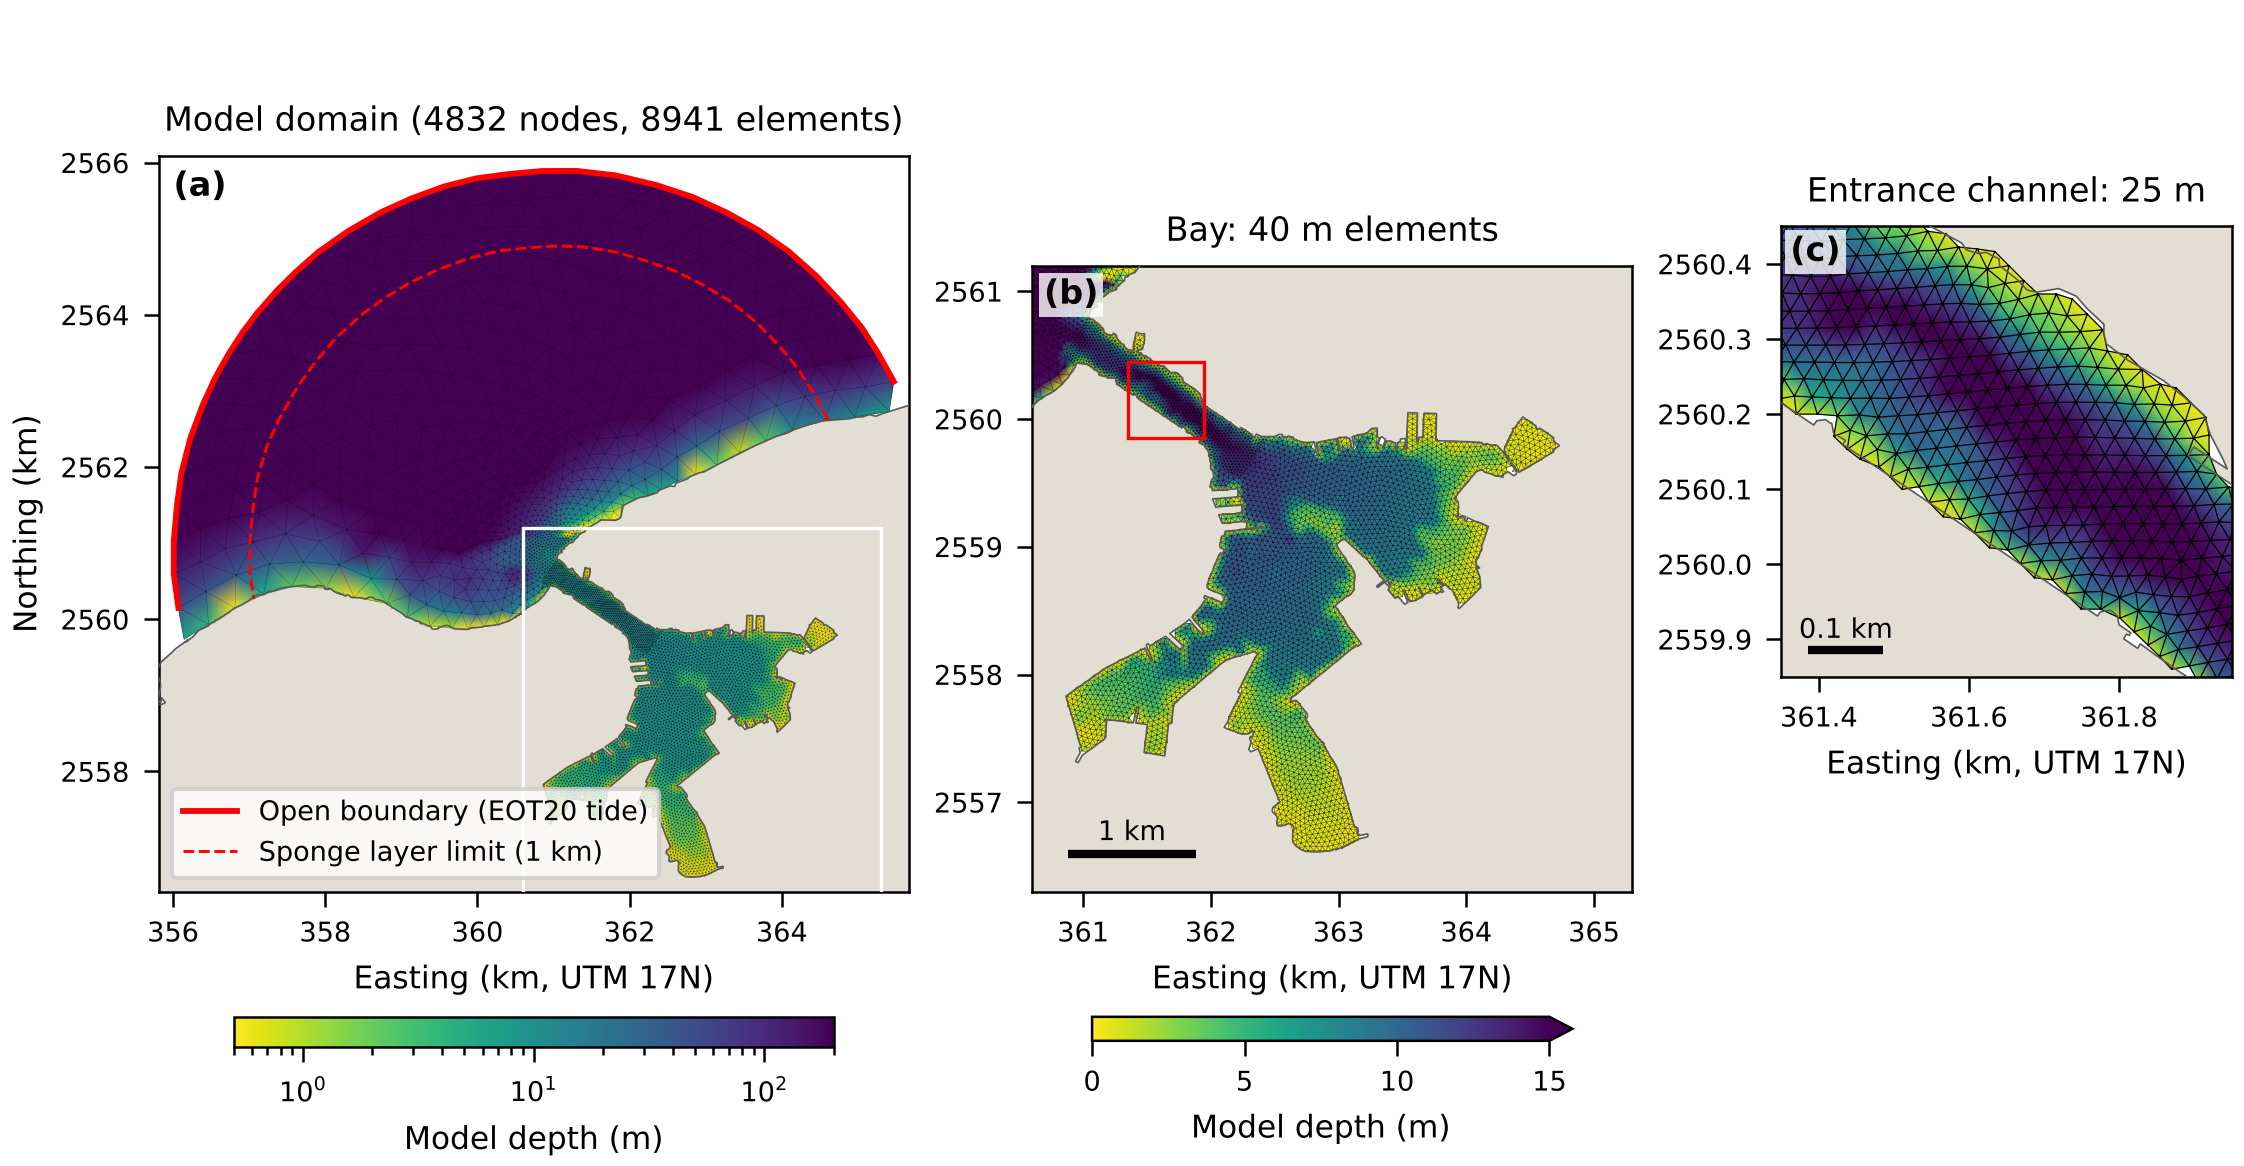
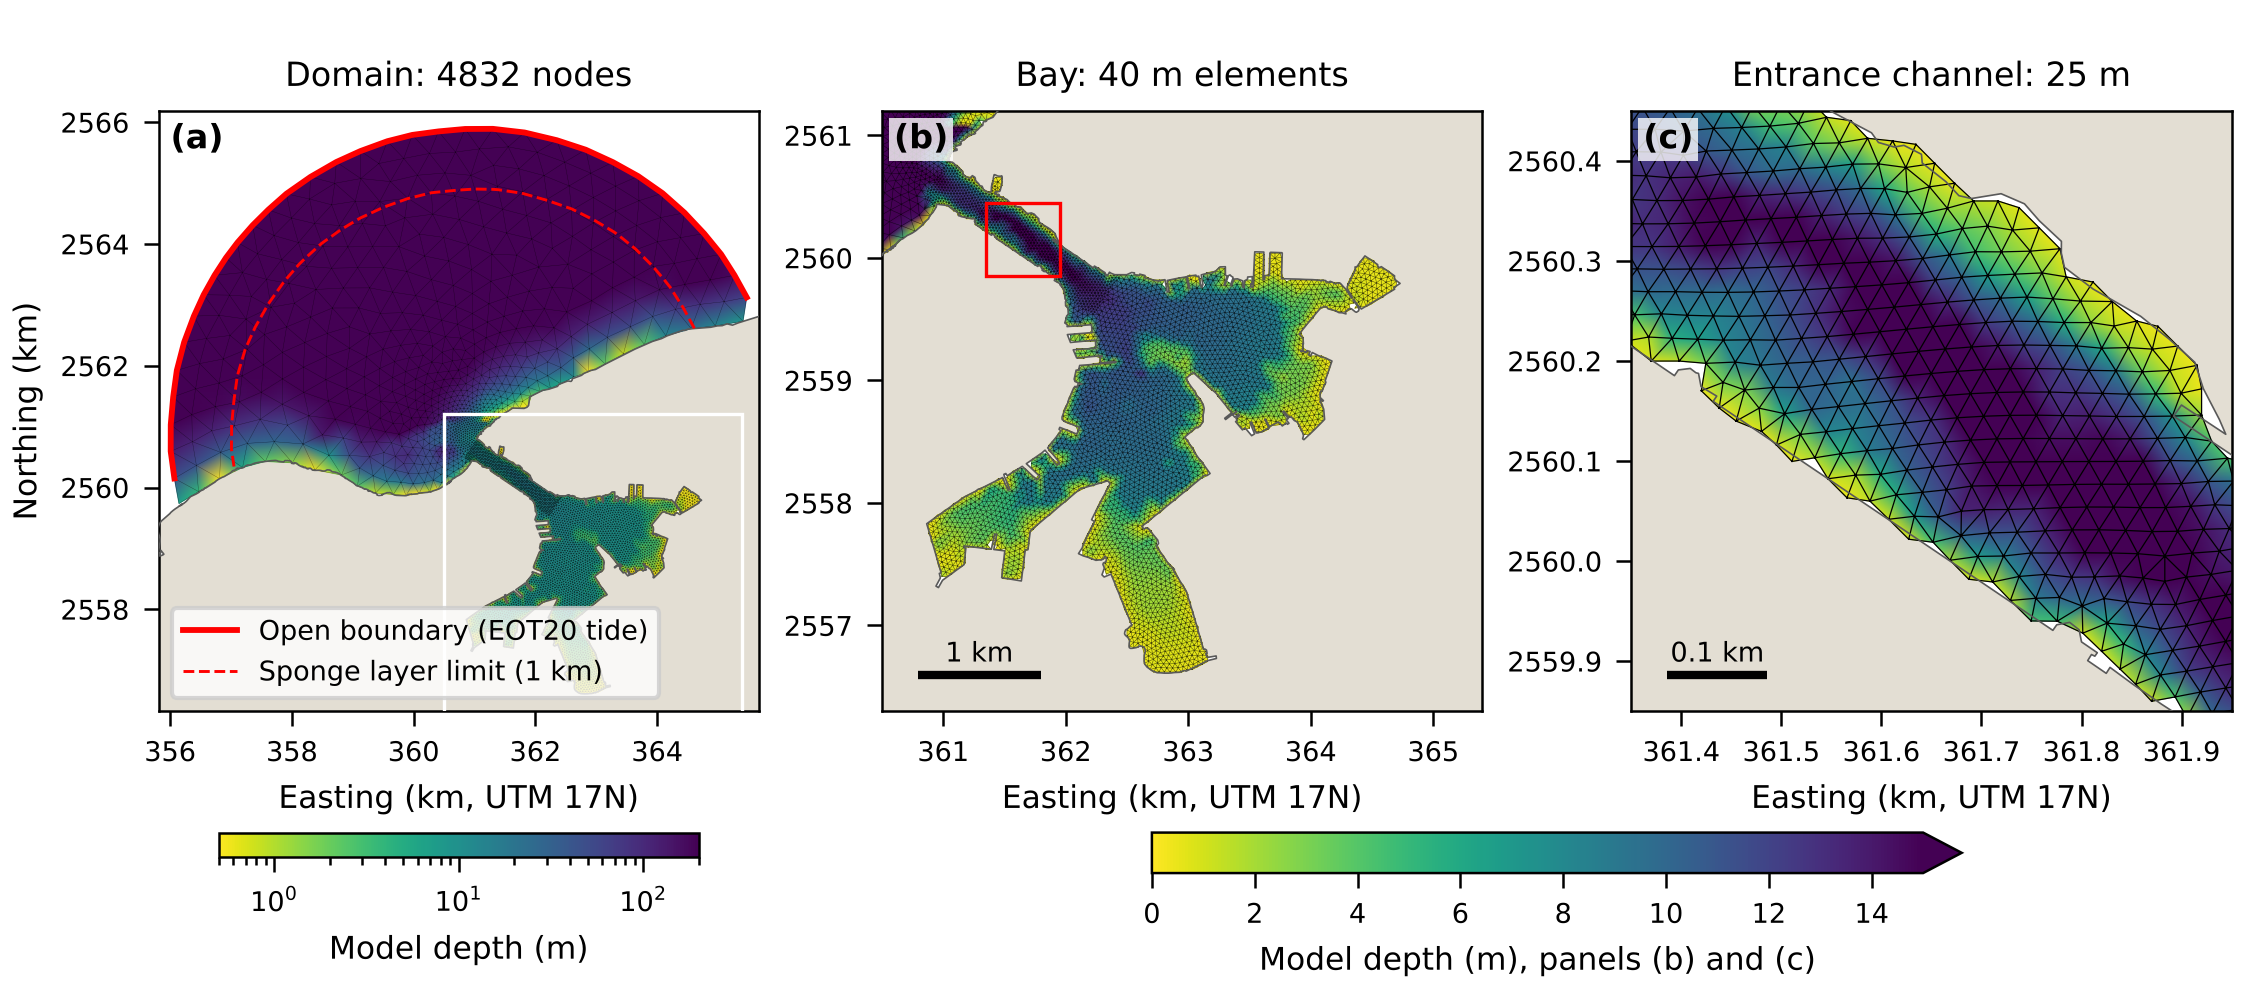
Figura 3: los tres paneles del mismo tamano (encuadres cuadrados) y una barra de color comun para (b) y (c)
Claude-Session: https://claude.ai/code/session_011ZQy6j6faxb4dHyc5rKgZH

diff --git a/scripts/figuras_articulo.py b/scripts/figuras_articulo.py
@@ -209,34 +209,39 @@ def fig2():
     guarda(fig, "fig02_bathymetry")
 
 
+def cuadrado(l):
+    """Límites (x0, x1, y0, y1) ampliados al cuadrado del mismo centro: paneles de igual tamaño con aspecto 1."""
+    cx, cy, r = (l[0] + l[1]) / 2, (l[2] + l[3]) / 2, max(l[1] - l[0], l[3] - l[2]) / 2
+    return cx - r, cx + r, cy - r, cy + r
+
+
 def fig3():
     """Malla: dominio completo con profundidad, borde abierto y esponja; bahía; detalle del canal."""
     costa = costa_km()
     x, y, d, el, ab = hgrid(RAIZ / "runs" / "robustez" / "m0000" / "hgrid.gr3")
     xk, yk = x / 1000, y / 1000
     dist = np.min(np.hypot(x[:, None] - x[ab][None], y[:, None] - y[ab][None]), axis=1)
-    fig = plt.figure(figsize=(ANCHO, ANCHO * 0.52), constrained_layout=True)
-    gs = fig.add_gridspec(1, 3, width_ratios=[1.25, 1, 0.75])
-    a = fig.add_subplot(gs[0]); fondo(a, costa)
+    fig, (a, b, e) = plt.subplots(1, 3, figsize=(ANCHO, ANCHO * 0.44), constrained_layout=True)
+    bahia, det = cuadrado(BAHIA), (361.35, 361.95, 2559.85, 2560.45)
+    fondo(a, costa)
     tp = a.tripcolor(xk, yk, el, np.clip(d, 0.5, 200), norm=LogNorm(0.5, 200), cmap="viridis_r", shading="gouraud", zorder=1)
     a.triplot(xk, yk, el, color="k", lw=0.08, alpha=0.6, zorder=2)
     a.tricontour(xk, yk, el, dist, [1000], colors="r", linewidths=0.7, linestyles="--", zorder=3)
     a.plot(xk[ab], yk[ab], "r-", lw=1.4, zorder=4)
-    lim = (xk.min() - 0.2, xk.max() + 0.2, yk.min() - 0.2, yk.max() + 0.2)
-    ejes_km(a, lim); a.set_title(f"Model domain ({len(x)} nodes, {len(el)} elements)"); letra(a, "a")
-    a.add_patch(Rectangle((BAHIA[0], BAHIA[2]), BAHIA[1] - BAHIA[0], BAHIA[3] - BAHIA[2], fill=False, ec="w", lw=0.8, zorder=5))
+    ejes_km(a, cuadrado((xk.min() - 0.2, xk.max() + 0.2, yk.min() - 0.2, yk.max() + 0.2)))
+    a.set_title(f"Domain: {len(x)} nodes"); letra(a, "a")
+    a.add_patch(Rectangle((bahia[0], bahia[2]), bahia[1] - bahia[0], bahia[3] - bahia[2], fill=False, ec="w", lw=0.8, zorder=5))
     a.legend(handles=[Line2D([], [], color="r", lw=1.4, label="Open boundary (EOT20 tide)"),
                       Line2D([], [], color="r", lw=0.7, ls="--", label="Sponge layer limit (1 km)")], loc="lower left")
     c = fig.colorbar(tp, ax=a, shrink=0.8, location="bottom", pad=0.02); c.set_label("Model depth (m)")
-    b = fig.add_subplot(gs[1]); fondo(b, costa)
+    fondo(b, costa)
     b.tripcolor(xk, yk, el, np.clip(d, 0, 15), vmin=0, vmax=15, cmap="viridis_r", shading="gouraud", zorder=1)
     b.triplot(xk, yk, el, color="k", lw=0.12, alpha=0.7, zorder=2)
-    det = (361.35, 361.95, 2559.85, 2560.45)
     b.add_patch(Rectangle((det[0], det[2]), det[1] - det[0], det[3] - det[2], fill=False, ec="r", lw=0.8, zorder=5))
-    ejes_km(b, BAHIA, (True, False)); b.set_title("Bay: 40 m elements"); letra(b, "b"); escala(b)
-    c = fig.colorbar(plt.cm.ScalarMappable(norm=plt.Normalize(0, 15), cmap="viridis_r"), ax=b, shrink=0.8, location="bottom",
-                     pad=0.02, extend="max"); c.set_label("Model depth (m)")
-    e = fig.add_subplot(gs[2]); fondo(e, costa)
+    ejes_km(b, bahia, (True, False)); b.set_title("Bay: 40 m elements"); letra(b, "b"); escala(b)
+    c = fig.colorbar(plt.cm.ScalarMappable(norm=plt.Normalize(0, 15), cmap="viridis_r"), ax=[b, e], shrink=0.6, location="bottom",
+                     pad=0.02, extend="max"); c.set_label("Model depth (m), panels (b) and (c)")
+    fondo(e, costa)
     e.tripcolor(xk, yk, el, np.clip(d, 0, 15), vmin=0, vmax=15, cmap="viridis_r", shading="gouraud", zorder=1)
     e.triplot(xk, yk, el, color="k", lw=0.3, zorder=2)
     ejes_km(e, det, (True, False)); e.set_title("Entrance channel: 25 m"); letra(e, "c"); escala(e, 0.1)
